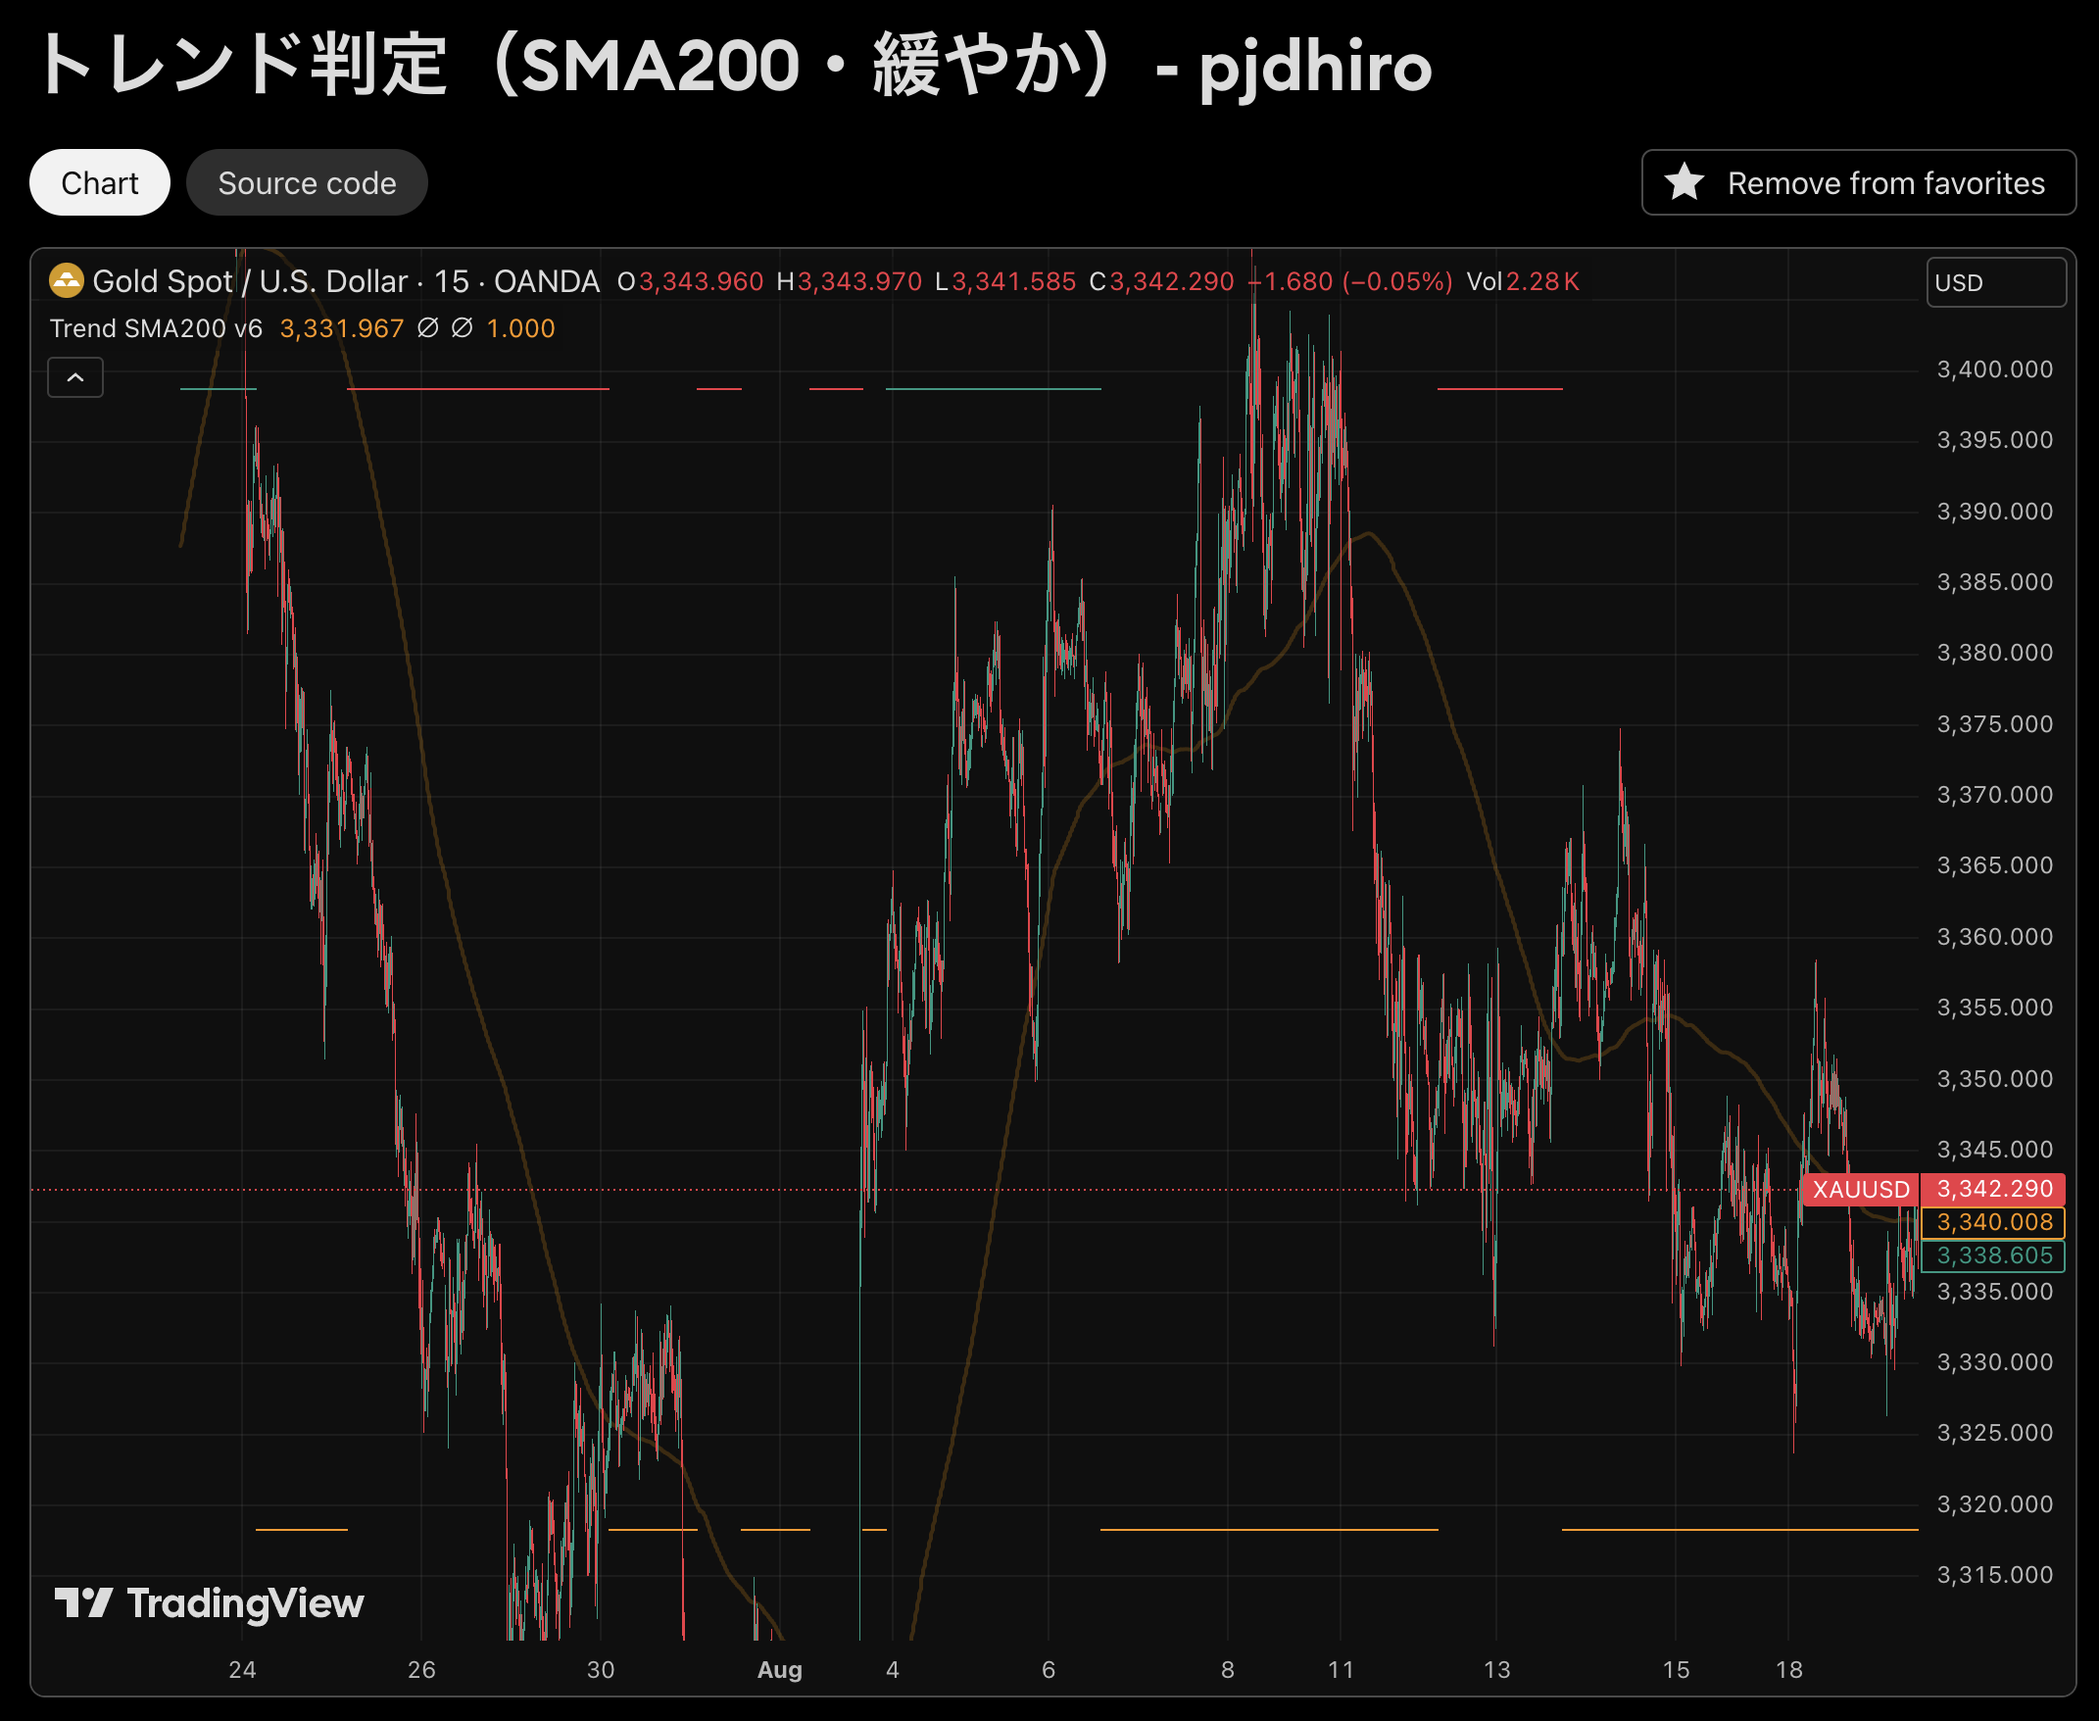
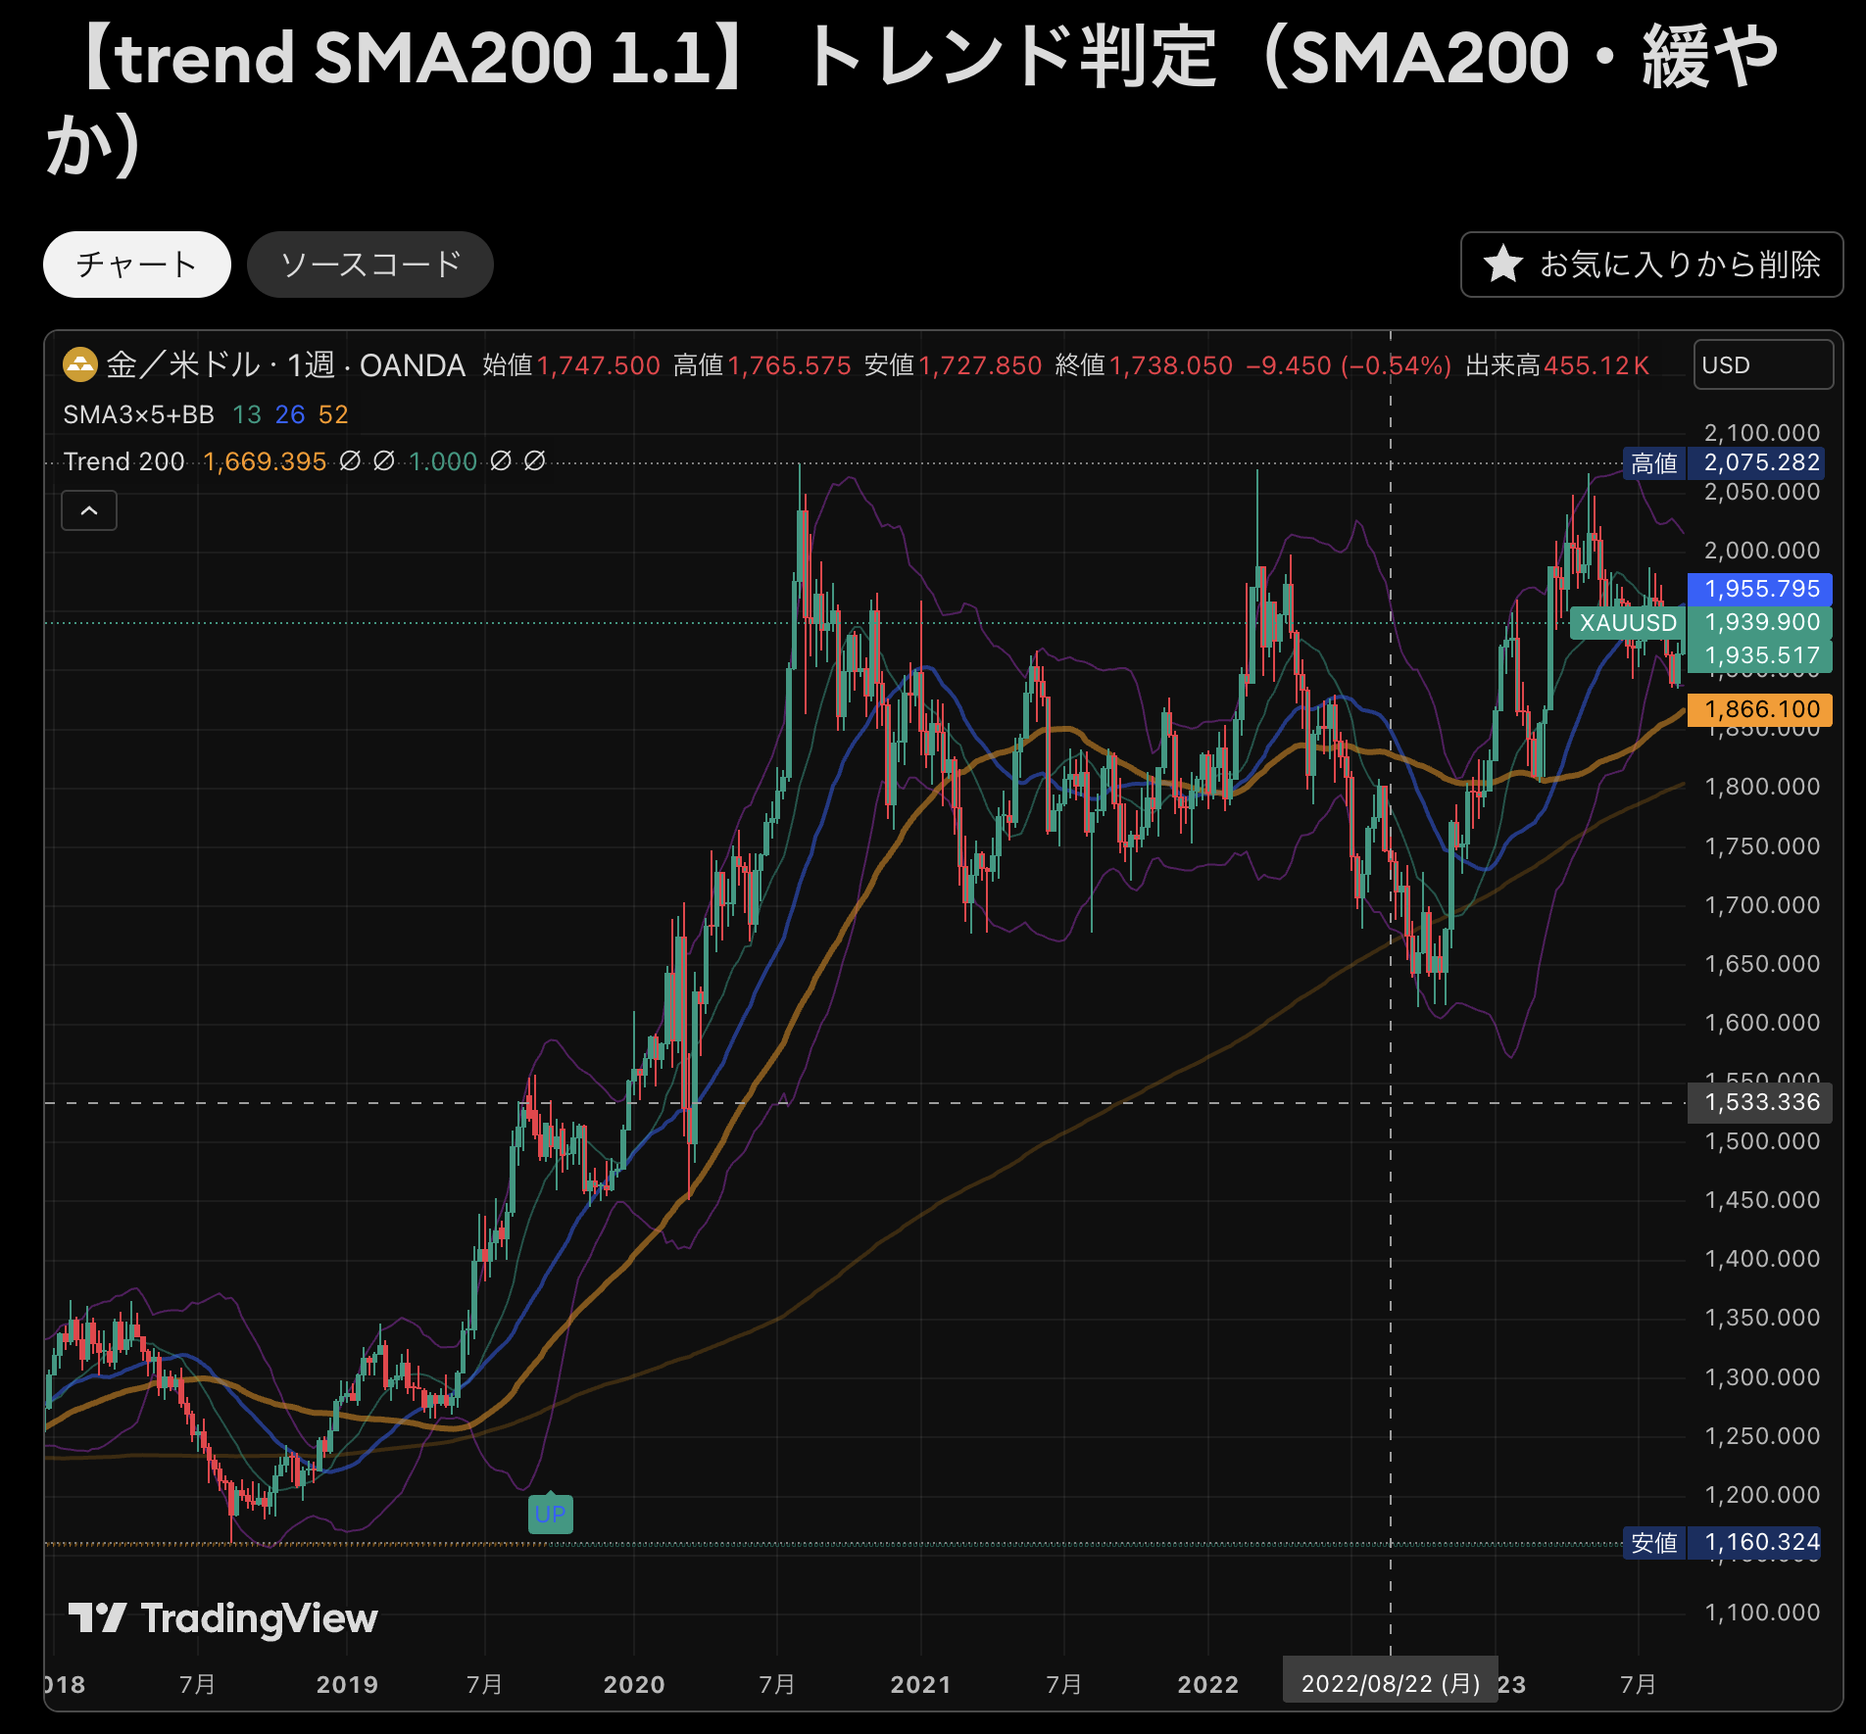
BLOG更新

diff --git a/_pages/note/pine/trendSMA200.md b/_pages/note/pine/trendSMA200.md
@@ -1,6 +1,6 @@
 ---
 permalink: /note-pine/trendSMA200/
-title: "TradingView:indicator:トレンド判定(移動平均線・期間200)"
+title: "TradingView:indicator:【Trend SMA200】トレンド判定(移動平均線・期間200)"
 date: 2025-08-31
 categories:
   - Pine
@@ -14,12 +14,15 @@ sidebar:
   nav5: ""
 ---
 
-## トレンド判定をチャート上部に出力するインジケータ
+## 【Trend SMA200】
 
+- 概要
+  - トレンド判定をチャート上部に出力するインジケータ
 - 目的
-  - 15分足でのエントリー時に大きな流れを判断する
+  - エントリー時に大きな流れを判断する
 - 特徴
-  - 色付き文字(上昇=U,下降=D,フラット=F)をチャート上部に出力します。
+  - 色付きフラッグをチャート下部に出力します。
+  - 色付き文字(上昇=U,下降=D,フラット=F)をチャート下部に出力します。
     - *オプションで位置を変更可能(ex.ローソク足の上下に表示)
 
 ### 仕様
@@ -29,6 +32,5 @@ sidebar:
 - **確定足のみ判定**オプションで形成中の反転ノイズを抑制。
 
 - Source code
-  - [【トレンド判定（SMA200・緩やか） — TradingView】](https://www.tradingview.com/script/mS2wILDB-%E3%83%88%E3%83%AC%E3%83%B3%E3%83%89%E5%88%A4%E5%AE%9A-SMA200-%E7%B7%A9%E3%82%84%E3%81%8B-pjdhiro/)
-
-[![トレンド判定（SMA200・緩やか]({{ '/assets/images/pages/note/pine/trendSMA200.png' | relative_url }})]({{ '/assets/images/pages/note/pine/trendSMA200.png' | relative_url }})
+  - [【Trend SMA200】トレンド判定（SMA200・緩やか） — TradingView](https://jp.tradingview.com/script/G7YcFzHn/)  
+[![img]({{ '/assets/images/pages/note/pine/trendSMA200.png' | relative_url }})]({{ '/assets/images/pages/note/pine/trendSMA200.png' | relative_url }})

diff --git a/_pages/general/system/pages-categories-pine.md b/_pages/general/system/pages-categories-pine.md
@@ -22,7 +22,7 @@ sidebar:
   <img src="{{ '/assets/images/pages/note/pine/sma5setBB.png' | relative_url }}" alt="SMA3×5+BB" width="480">
 </a>
 
-#### [【Trend SMA200】 トレンド判定（SMA200・緩やか）]({{ '/note-pine/trendSMA200/' | relative_url }})  
+#### [【Trend SMA200　1.1】 トレンド判定（SMA200・緩やか）]({{ '/note-pine/trendSMA200/' | relative_url }})  
 
 - 主にXAUUSD15分足での使用を念頭に、トレンドの方向を判定し、上部に色付き文字で表示します。  
 <!-- [![トレンド判定（SMA200・緩やか]({{ '/assets/images/pages/note/pine/trendSMA200.png' | relative_url }})]({{ '/assets/images/pages/note/pine/trendSMA200.png' | relative_url }}) -->

diff --git a/_pages/note/pine/sma5set.md b/_pages/note/pine/sma5set.md
@@ -16,7 +16,7 @@ sidebar:
 
 ## SMA3×5+BB
 
-- 目的
+- 概要
   - 一つのインジケータで3本の移動平均線とボリンジャーバンドを描画
 - 特徴
   - 最大3本（短期・中期・長期）の移動平均線を出力します。
